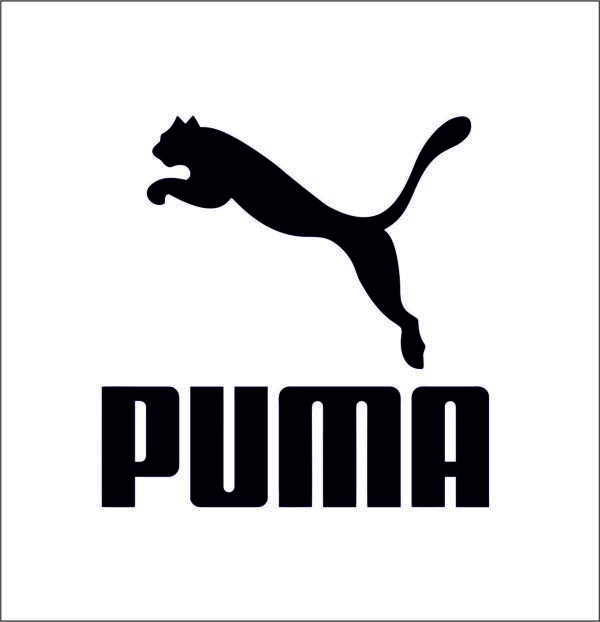
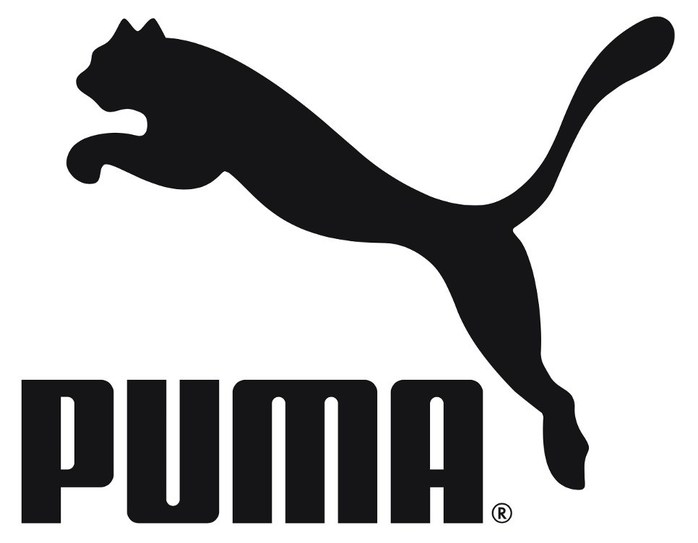
Modified brand images

diff --git a/index.html b/index.html
@@ -600,12 +600,12 @@
             </div>
             <div class="brand-item col l-2">
                <a href="./pages/menu-detail-3.html">
-                  <img src="./assets/img/brands/essential.jpg" alt="" width="130">
+                  <img src="./assets/img/brands/lacoste.png" alt="" width="130">
                </a>
             </div>
             <div class="brand-item col l-2">
                <a href="./pages/menu-detail-4.html">
-                  <img src="./assets/img/brands/jordan.jpg" alt="" width="130">
+                  <img src="./assets/img/brands/puma.jpg" alt="" width="130">
                </a>
             </div>
             <div class="brand-item col l-2">

diff --git a/assets/css/main.css b/assets/css/main.css
@@ -1,7 +1,6 @@
 .header {
 	margin: 12px 0;
 	height: var(--header-height);
-	/* background-image: linear-gradient(0, #fe6433, #f53e2d); */
 }
 .header__navbar {
 	display: flex;
@@ -341,9 +340,6 @@ chức năng kia */
 	color: var(--primary-color);
 	font-weight: 500;
 	cursor: pointer;
-}
-
-.auth-form__form {
 }
 
 .auth-form__input {
